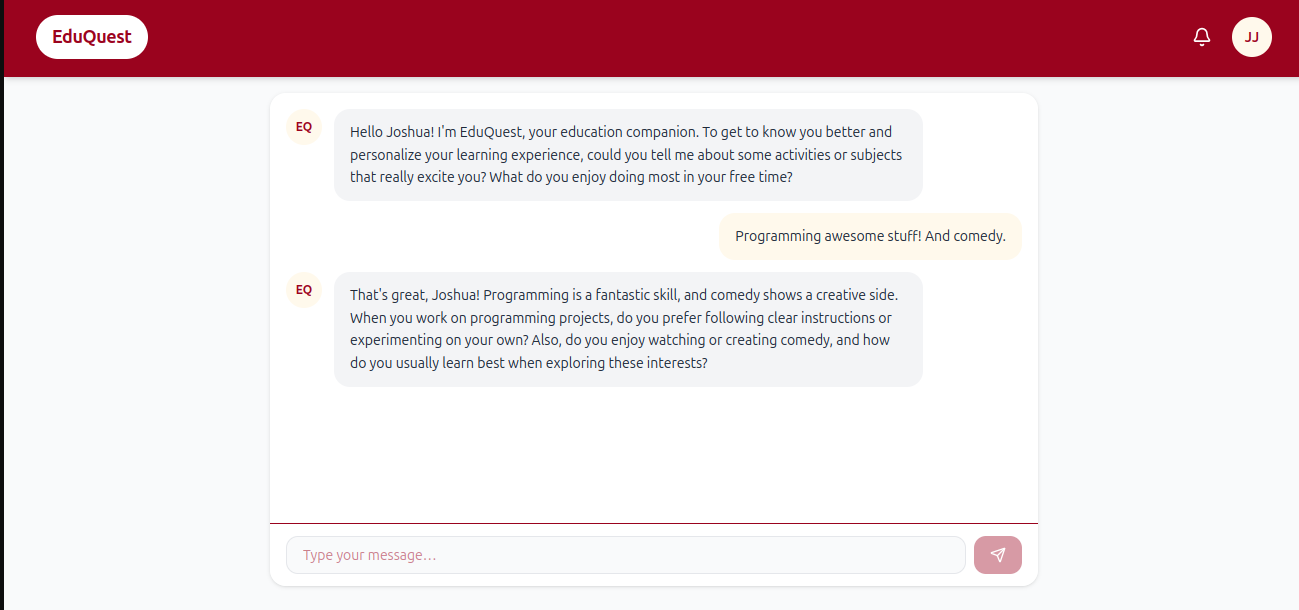
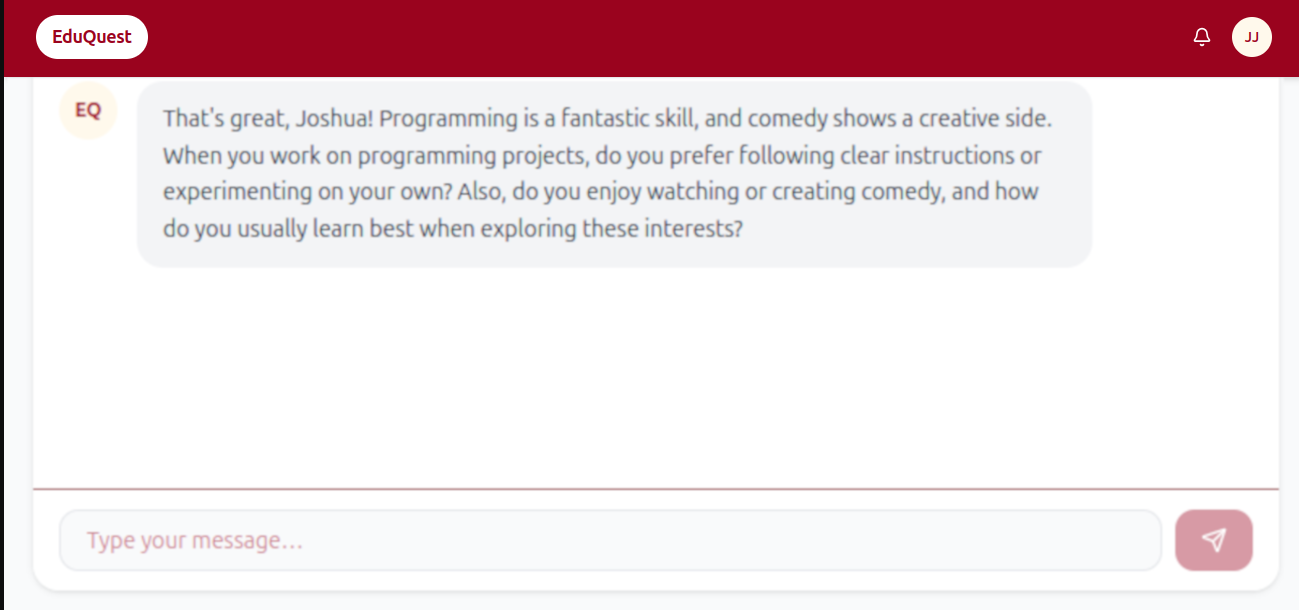
Better images for projects

diff --git a/index.html b/index.html
@@ -230,20 +230,44 @@
                 <article class="card project-card">
                   <h3>Eduquest</h3>
                   <div class="project-img-wrap">
-                    <img src="assets/PersonalizedLearning.png" alt="Eduquest screenshot" />
+                    <img
+                      src="assets/PersonalizedLearning2.png"
+                      alt="Eduquest screenshot"
+                      style="--img-pos: top left"
+                    />
                     <div class="project-overlay">
-                      <p>AI-powered platform helping parents and teachers create fun learning projects for students.</p>
-                      <a href="https://www.eduquestai.org/" target="_blank" rel="noreferrer">Visit Eduquest</a>
+                      <p>
+                        AI-powered platform helping parents and teachers create
+                        fun learning projects for students.
+                      </p>
+                      <a
+                        href="https://www.eduquestai.org/"
+                        target="_blank"
+                        rel="noreferrer"
+                        >Visit Eduquest</a
+                      >
                     </div>
                   </div>
                 </article>
                 <article class="card project-card">
                   <h3>Psychic Questions</h3>
                   <div class="project-img-wrap">
-                    <img src="assets/PsychicQuestions.png" alt="Psychic Questions screenshot" />
+                    <img
+                      src="assets/PsychicQuestions.png"
+                      alt="Psychic Questions screenshot"
+                      style="--img-pos: top left"
+                    />
                     <div class="project-overlay">
-                      <p>A JavaScript project with MIT License. Building something new and exciting.</p>
-                      <a href="https://github.com/joshuajob-cs/startup" target="_blank" rel="noreferrer">View on GitHub</a>
+                      <p>
+                        A JavaScript project with MIT License. Building
+                        something new and exciting.
+                      </p>
+                      <a
+                        href="https://github.com/joshuajob-cs/startup"
+                        target="_blank"
+                        rel="noreferrer"
+                        >View on GitHub</a
+                      >
                     </div>
                   </div>
                 </article>
@@ -253,47 +277,54 @@
                     <img src="assets/Chess.png" alt="Chess screenshot" />
                     <div class="project-overlay">
                       <p>A Java implementation of the classic chess game.</p>
-                      <a href="https://github.com/joshuajob-cs/chess" target="_blank" rel="noreferrer">View on GitHub</a>
+                      <a
+                        href="https://github.com/joshuajob-cs/chess"
+                        target="_blank"
+                        rel="noreferrer"
+                        >View on GitHub</a
+                      >
                     </div>
                   </div>
                 </article>
                 <article class="card project-card">
                   <h3>Elephant Video Game</h3>
                   <div class="project-img-wrap">
-                    <img src="assets/CalculusVideoGame.jpg" alt="Elephant Video Game screenshot" />
+                    <img
+                      src="assets/CalculusVideoGame.jpg"
+                      alt="Elephant Video Game screenshot"
+                    />
                     <div class="project-overlay">
-                      <p>High school senior project using Godot engine. A ~10 minute video game to teach Calculus.</p>
-                      <a href="https://github.com/joshuajob-cs/elephant-video-game" target="_blank" rel="noreferrer">View on GitHub</a>
-                    </div>
-                  </div>
-                </article>
-                <article class="card project-card">
-                  <h3>Face Cannon</h3>
-                  <div class="project-img-wrap">
-                    <img src="assets/PsychicQuestions.png" alt="Face Cannon screenshot" />
-                    <div class="project-overlay">
-                      <p>AP Computer Science A project in Python. A cannon that shoots faces to collect coins.</p>
-                      <a href="https://github.com/joshuajob-cs/face-cannon" target="_blank" rel="noreferrer">View on GitHub</a>
-                    </div>
-                  </div>
-                </article>
-                <article class="card project-card">
-                  <h3>Sudoku Solver</h3>
-                  <div class="project-img-wrap">
-                    <img src="assets/PsychicQuestions.png" alt="Sudoku Solver screenshot" />
-                    <div class="project-overlay">
-                      <p>A Java program to solve Sudoku puzzles. Created in high school, took over a month to develop.</p>
-                      <a href="https://github.com/joshuajob-cs/sudoku-solver" target="_blank" rel="noreferrer">View on GitHub</a>
+                      <p>
+                        High school senior project using Godot engine. A ~10
+                        minute video game to teach Calculus.
+                      </p>
+                      <a
+                        href="https://github.com/joshuajob-cs/elephant-video-game"
+                        target="_blank"
+                        rel="noreferrer"
+                        >View on GitHub</a
+                      >
                     </div>
                   </div>
                 </article>
                 <article class="card project-card">
                   <h3>Heritage Halls Kiss Count</h3>
                   <div class="project-img-wrap">
-                    <img src="assets/HeritageHalls.png" alt="Heritage Halls Kiss Count screenshot" />
+                    <img
+                      src="assets/HeritageHalls.png"
+                      alt="Heritage Halls Kiss Count screenshot"
+                    />
                     <div class="project-overlay">
-                      <p>Counted every kiss in the Heritage Halls promotional video.</p>
-                      <a href="https://www.youtube.com/watch?v=IVDw57KXviE" target="_blank" rel="noreferrer">Watch on YouTube</a>
+                      <p>
+                        Counted every kiss in the Heritage Halls promotional
+                        video.
+                      </p>
+                      <a
+                        href="https://www.youtube.com/watch?v=IVDw57KXviE"
+                        target="_blank"
+                        rel="noreferrer"
+                        >Watch on YouTube</a
+                      >
                     </div>
                   </div>
                 </article>
@@ -303,8 +334,6 @@
               <button class="carousel-btn" id="projectsPrev">&#8592;</button>
               <div class="carousel-dots" id="projectsDots">
                 <span class="dot dot--active"></span>
-                <span class="dot"></span>
-                <span class="dot"></span>
                 <span class="dot"></span>
                 <span class="dot"></span>
                 <span class="dot"></span>
@@ -364,10 +393,10 @@
     <script src="about-colors.js"></script>
     <script src="carousel.js"></script>
     <script>
-      document.querySelectorAll('.project-img-wrap').forEach(function(wrap) {
-        wrap.addEventListener('click', function(e) {
-          if (e.target.tagName === 'A') return;
-          wrap.classList.toggle('revealed');
+      document.querySelectorAll(".project-img-wrap").forEach(function (wrap) {
+        wrap.addEventListener("click", function (e) {
+          if (e.target.tagName === "A") return;
+          wrap.classList.toggle("revealed");
         });
       });
     </script>

diff --git a/carousel.css b/carousel.css
@@ -1,12 +1,12 @@
 /* ── Projects Carousel ───────────────────────────────────── */
 .carousel-wrapper {
-  max-width: 860px;
+  max-width: 1100px;
   margin: 0 auto;
 }
 
 .carousel-stage {
-  perspective: 1000px;
-  height: 200px;
+  perspective: 1200px;
+  height: 320px;
   position: relative;
   overflow: visible;
 }
@@ -27,10 +27,10 @@
 
 .carousel-ring .card {
   position: absolute;
-  width: 280px;
+  width: 400px;
   top: 0;
   left: 50%;
-  margin-left: -140px;
+  margin-left: -200px;
   transition: transform 0.5s cubic-bezier(0.4, 0, 0.2, 1),
               opacity 0.5s ease;
   opacity: 0;
@@ -45,13 +45,13 @@
 }
 
 .carousel-ring .card.pos--left {
-  transform: translateX(-260px) rotateY(30deg) scale(0.82);
+  transform: translateX(-360px) rotateY(30deg) scale(0.78);
   opacity: 0.55;
   z-index: 2;
 }
 
 .carousel-ring .card.pos--right {
-  transform: translateX(260px) rotateY(-30deg) scale(0.82);
+  transform: translateX(360px) rotateY(-30deg) scale(0.78);
   opacity: 0.55;
   z-index: 2;
 }

diff --git a/styles.css b/styles.css
@@ -271,6 +271,7 @@ h2 {
   width: 100%;
   aspect-ratio: 16 / 9;
   object-fit: cover;
+  object-position: var(--img-pos, center);
   transition: filter 0.25s;
 }
 
